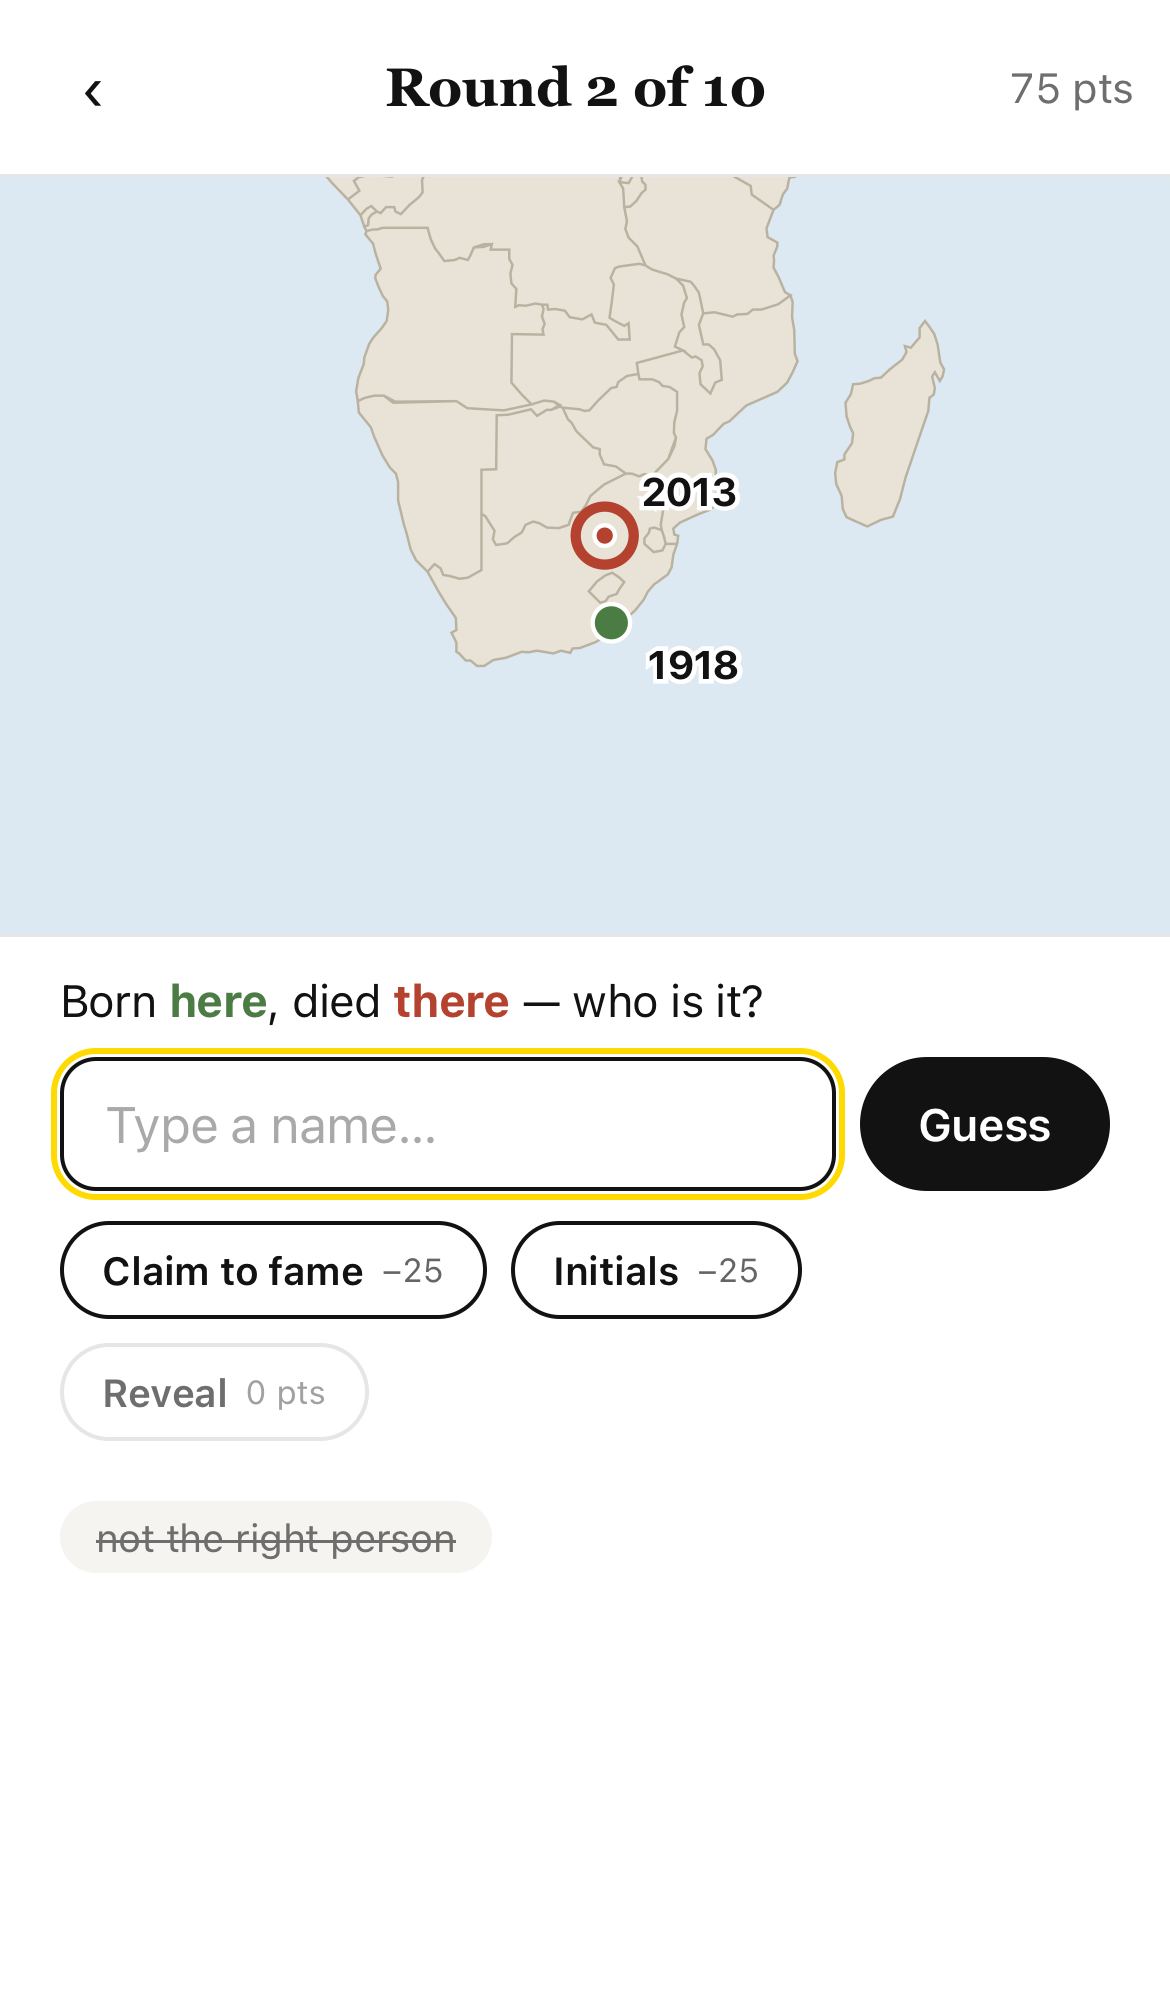
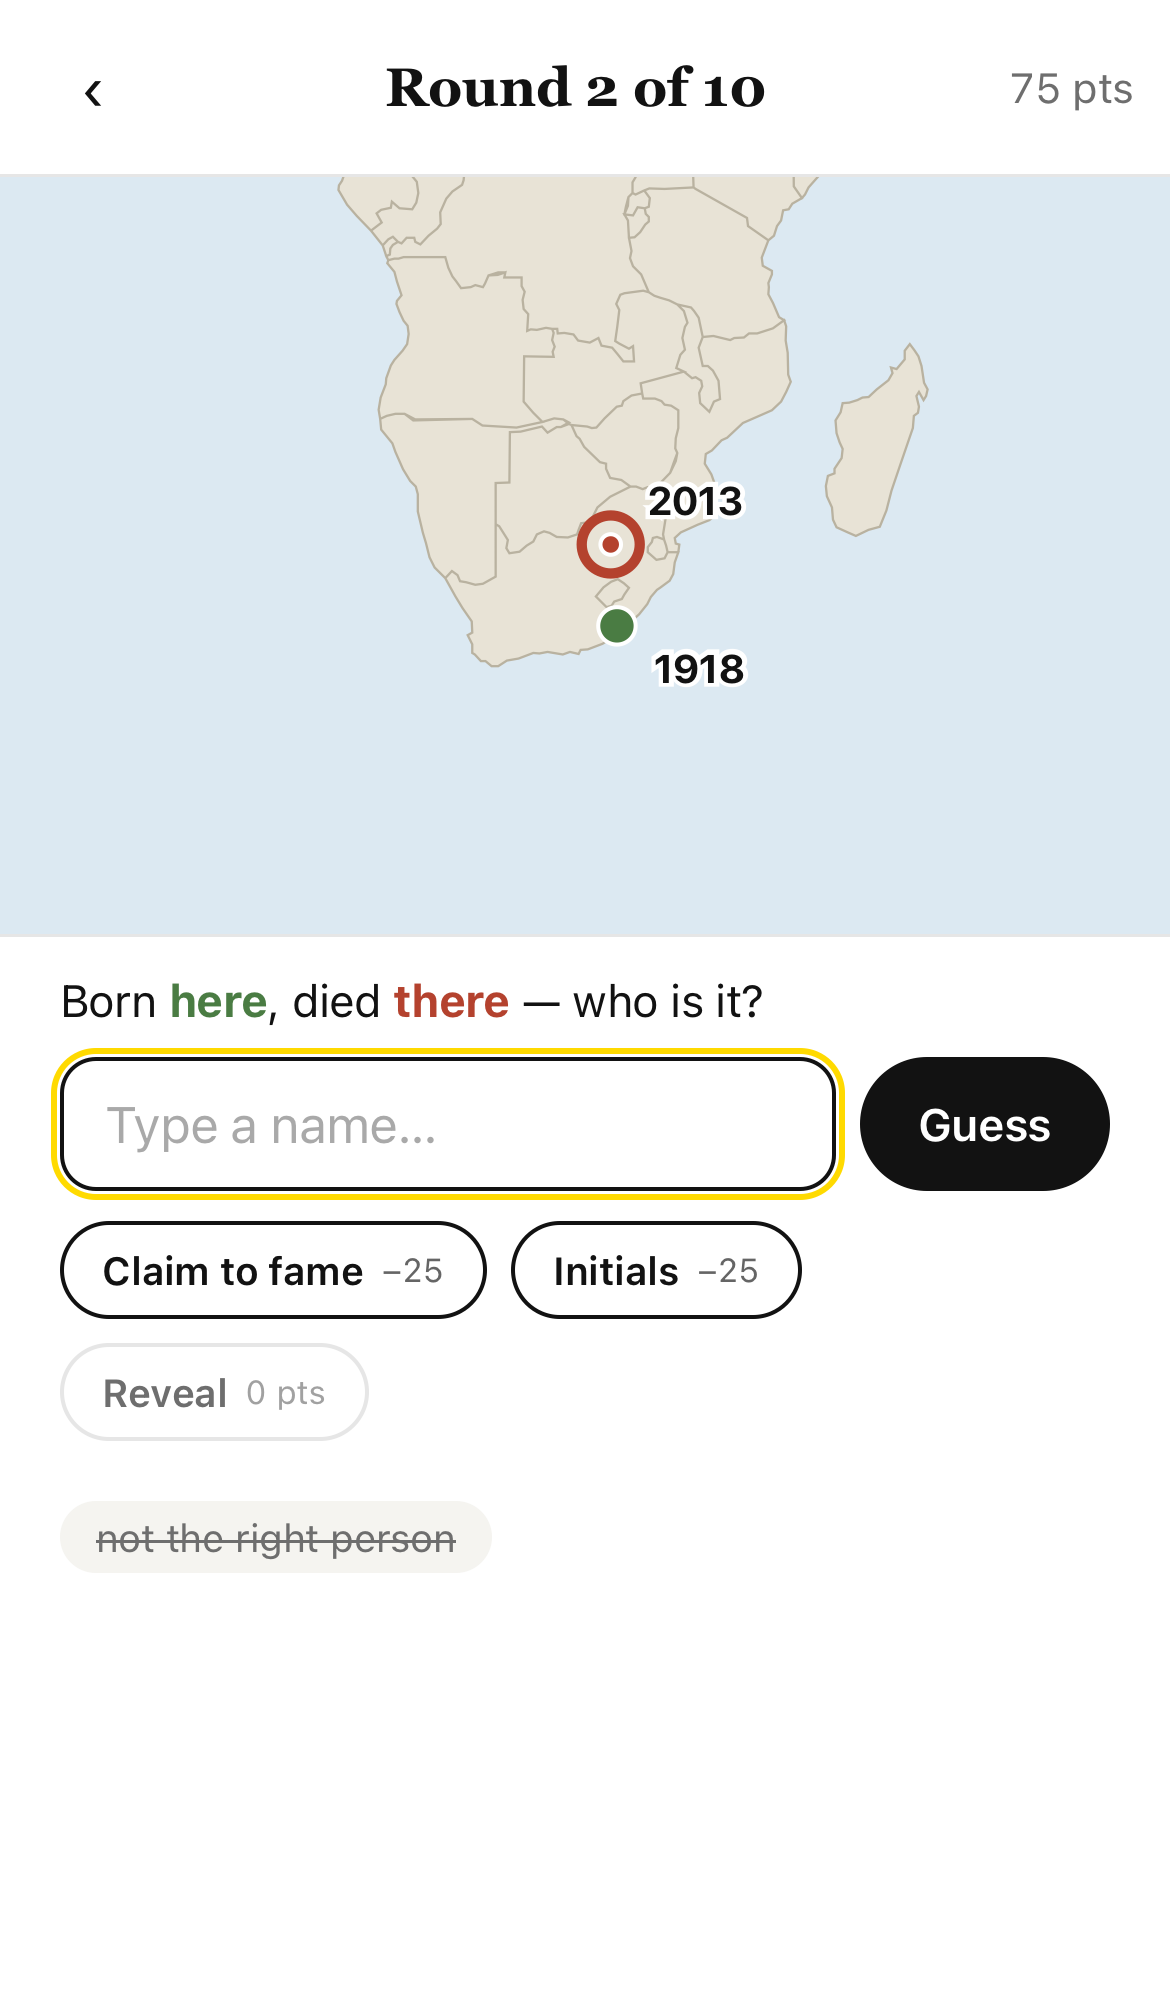
Final: round 6 critic report + refreshed screenshots
All 5 test steps pass (validator, crosswords, map game, PWA/offline,
screenshots). Round 6 verdict: HIGH 0, MEDIUM 2, LOW 8 — no high-severity
defects. Critic loop complete at cap (6 rounds).

diff --git a/CRITIC_REPORT.md b/CRITIC_REPORT.md
@@ -1,58 +1,48 @@
-# Critic report — round 5
+# Critic report — round 6 (final)
 
 ## Verdict
-HIGH: 1  MEDIUM: 1  LOW: 10
+HIGH: 0  MEDIUM: 2  LOW: 8
 
 ## Defects
 
-### [HIGH] Interrupting the session after answering the FINAL round silently discards the whole session
-- Where: js/mapgame.js — renderMapStart() / resumeSession() / finishSession()
-- What: The round-4 fix makes resume derive the next round from `results.length`, which works for rounds 1–9 (verified). But when the app is killed/evicted after the 10th round resolves and before "See results ›" is tapped, the saved blob has `results.length === ids.length`, so renderMapStart() deems it non-resumable (Resume hidden) and resumeSession() would clear it. finishSession() never runs, so no summary is shown, `sessions` is never incremented and the best score is never recorded. Empirically reproduced (Playwright, mapseed=7): answered all 10 rounds for 1090 pts on screen → reload → map start says "First session — good luck", Resume hidden, `map` stats null, while an orphaned 10-result session blob sits in localStorage until the next "Start a session" overwrites it. On iOS, switching apps at the final feedback screen — the natural "I'm done" moment — routinely evicts the PWA page, so this is the same kill-before-"Next" window round 4 flagged, still broken for the last round, now as silent data loss instead of double-counting.
-- Why it matters: A completed 10-round session — potentially the player's best score — vanishes without acknowledgement; the spec promises score persistence and a session summary.
+### [MEDIUM] A finished-but-unviewed session is permanently discarded if the player taps "Start a session" instead of "See your results"
+- Where: js/mapgame.js — startSession() / renderMapStart(); view-mapstart button hierarchy in index.html
+- What: The round-5 fix correctly surfaces a kill-after-final-round session as a "See your results (N pts)" button, and tapping it records the session (verified: suite + my probe). But that button is the *secondary* pill, below the primary "Start a session". If the player taps Start instead — plausible for someone returning days after an eviction — startSession() immediately persists a fresh session over the finished blob and the completed session is never counted: empirically reproduced (Chromium, mapseed=7): finish all 10 rounds for 1090 pts on screen → reload → map start shows "See your results (1090 pts)" → tap "Start a session" → store.getMap() is still {sessions: 0, bestScore: 0, bestStreak: 0}. A completed session containing what may be the player's best score evaporates with no record and no acknowledgement, even though the app had every byte needed to bank it before overwriting.
+- Why it matters: Spec promises score persistence and a session summary; banking a *finished* session should not depend on which of two buttons the player taps.
 
-### [MEDIUM] Navigating away during the celebration leaves a stale "solved" modal over the next puzzle
-- Where: js/crossword.js — openPuzzle() never resets #cw-done (nor #cw-sheet / #cw-cluelist); index.html #cw-done lives inside #view-cw
-- What: The completion modal is only hidden by its own two buttons. If the player leaves view-cw while it is open — a plain browser Back on desktop (any engine), or Backspace in WebKit (see LOW below) — the modal's `hidden` stays false. Opening any other puzzle then shows the old celebration over the fresh grid. Empirically reproduced (Chromium desktop): solve Mini 2 → modal up → browser Back → open Mini 1 → "Bravo! Mini 2 solved in 0:00." sits over the unsolved Mini 1 grid. It is dismissable ("Admire the grid"), but a celebration appears over a grid that is not fully correct, naming the wrong puzzle.
-- Why it matters: Misleading celebration on the wrong puzzle violates "celebration ONLY when the grid is fully correct" on a path any desktop player can hit with one Back press.
+### [MEDIUM] The shared confirm dialog survives navigation and sits orphaned over the wrong screen
+- Where: js/app.js appConfirm() / #confirm-sheet (global, outside any .view); js/crossword.js viewchange handler hides cw-done/cw-sheet/cw-cluelist but not #confirm-sheet
+- What: The round-5 fix clears the crossword's own overlays on viewchange, but the app-wide #confirm-sheet is exempt. Two reproduced paths: (1) Chromium desktop — open Mini 1 → ✓ → "Clear & restart" → confirm up → browser Back: the puzzle list renders with "Clear all your answers and restart this puzzle?" still floating over it; tapping "Clear it" then wipes a puzzle that is no longer on screen. (2) WebKit hardware keyboard — in a map round tap ‹ (quit) → confirm up → press Backspace (focus on body): view navigates to the map start screen with the quit dialog still open; tapping "Quit session" from there clears the session and dumps the player on Home. The round-5 Backspace guard was added only inside view-cw, so the exact overlay-open-Backspace niche round 5 flagged still fires everywhere else.
+- Why it matters: An orphaned modal acting on off-screen state is broken, un-NYT-like UI on a one-press path (Back is a natural "dismiss the dialog" reflex), and its buttons mutate things the player can no longer see.
 
-### [LOW] Mid-round resume forgets hints and wrong-guess penalties already incurred
-- Where: js/mapgame.js — persistSession() saves no S.cur state; startRound() resets it on resume
-- What: Take both hints (occupation + initials shown), kill the app, resume: the same figure is presented with zero hint chips and zero penalty, and answering scores the full 100 (reproduced: 2 chips → reload → resume → same figure → "+100 pts"). An app-kill is a free hint-refund; deliberate players can use it to cheat their own best score.
-- Why it matters: Scoring-integrity leak on the resume path; only self-cheating, hence LOW.
+### [LOW] Mid-round resume restores hint chips but not wrong-guess chips, so carried −10 penalties are invisible
+- Where: js/mapgame.js — persistSession() stores cur.wrongs as a count only; startRound() rebuilds hint chips but #map-guesses stays empty
+- What: Take a hint, guess wrong twice, kill the app, resume: the chips for both hints reappear and the penalties are correctly kept (verified: resumed round paid 100−25−25−10 = +40 with one wrong guess carried), but the struck-through wrong-guess chips are gone, so a player who answers correctly sees a quieter payout than the visible state explains. Scoring integrity is now right (round-5 LOW fixed); what remains is a cosmetic accounting gap.
+- Why it matters: The score deduction is honest but unexplained on the resumed screen.
 
-### [LOW] Unhandled keys are not preventDefault-ed while overlays are open — WebKit Backspace navigates the app back
-- Where: js/crossword.js keydown handler — the overlay guard (`if (!$('#cw-sheet').hidden || ...) return;`) returns before preventDefault
-- What: With the check/reveal sheet, clue list, confirm or completion modal open, Backspace falls through to the browser default. In WebKit (Playwright WebKit reproduces; affects hardware-keyboard iPad/Safari setups) that is history-back: the app yanks the player out of the puzzle view mid-solve, and is one of the two triggers for the stale-modal defect above. Chromium is unaffected.
-- Why it matters: Hardware-keyboard niche, but it dumps a solver out of an in-progress puzzle from a habitual keypress.
-
-### [LOW] Reveal-all earns the identical celebration and "✓ time" badge as an honest solve
-- Where: js/crossword.js — doReveal('puzzle') → checkCompletion(); renderPuzzleList() done badge
-- What: Revealing the entire puzzle triggers the full "Bravo!" + confetti and marks the list entry "✓ 0:00" exactly like a genuine solve. The letter of the spec ("celebration only when fully correct") is met, but NYT distinguishes assisted/revealed completions (no gold star, different copy).
-- Why it matters: Un-NYT-like; cheapens the completion state the rest of the design treats as earned.
-
-### [LOW] Browser-Back mid-session leaves the map start screen stale (no Resume button)
-- Where: js/app.js popstate → render() (only refreshHomeStats for home); js/mapgame.js renderMapStart() only runs from the home-card click and quit/clear paths
-- What: Pressing browser Back during a round lands on "Map of a Life" start with a resumable session saved but the Resume button hidden (reproduced on Chromium). Tapping "Start a session" then silently overwrites the saved session. Related residue: in-app ‹ pops the view trail without popping history, so one browser-Back press afterwards is a visible no-op (depth-sync prevents anything worse — Forward no longer mis-navigates; verified).
-- Why it matters: Stale UI on a desktop-only navigation path; the installed-PWA primary target has no Back button.
+### [LOW] "Start a session" silently overwrites a resumable mid-round session with no confirmation
+- Where: js/mapgame.js — startSession() bound directly to #map-start
+- What: With "Resume — round N of 10 (X pts)" showing, tapping "Start a session" discards the saved session without the in-app confirm that quitting from inside a round requires. The Resume button is always fresh now (render() re-runs renderMapStart, verified), so the player is informed — but one mistap deletes progress that the quit path guards with "Quit this session? The score so far will be lost."
+- Why it matters: Inconsistent protection for the same destructive outcome.
 
 ### [LOW] Repeated short fill across the 10-puzzle set, including an identical 1-Across in consecutive midis
-- Where: data/puzzles.json — midi-1 and midi-2 both open with 1A NOT; HAN (mini-1/mini-3), EON (mini-4/mini-5), ERA (midi-1/full-2), AMA, ARI, NIT (midi-2/full-2)
-- What: Within-puzzle uniqueness holds (validator-enforced); the repeats are across puzzles, with NOT in the very same slot of consecutive midis. Acknowledged trade-off category, unchanged since round 4.
+- Where: data/puzzles.json — midi-1 and midi-2 both open with 1A NOT; HAN (mini-1/mini-3), EON (mini-4/mini-5), ERA (midi-1/full-2), AMA, ARI, NIT (midi-2/full-2), ALL (midi-3/full-2)
+- What: Within-puzzle uniqueness is validator-enforced and holds; these are cross-puzzle repeats, unchanged since round 4 and an acknowledged trade-off category.
 - Why it matters: Reads as constructor autopilot in a curated 10-puzzle collection.
 
 ### [LOW] ANN and ANNA in the same grid
 - Where: data/puzzles.json — full-2 "Old Europe", 23-Down ANN and 61-Down ANNA
-- What: Both clues are factually fine (Cape Ann named for Anne of Denmark; Leonowens in 1860s Siam), but ANN is wholly contained in ANNA; NYT construction avoids near-duplicates of the same name root in one grid. Unchanged since round 4.
+- What: Both clues are factually sound (Cape Ann for Anne of Denmark; Leonowens in 1860s Siam), but ANN is wholly contained in ANNA; NYT construction avoids near-duplicate name roots in one grid. Unchanged since round 4; acknowledged category.
 - Why it matters: Duplication-adjacent blemish in a marquee puzzle.
 
 ### [LOW] TREXARM remains a borderline entry
-- Where: data/puzzles.json — full-1 "Across the Ages", 25-Across ("Notoriously stubby limb on the Cretaceous' apex predator")
-- What: Factually fine, but T-REX ARM as a standalone 7-letter entry is informal slang at the edge of "real words/names/phrases only"; the "Cretaceous'" possessive is also awkward styling.
+- Where: data/puzzles.json — full-1 "Across the Ages", 25-Across
+- What: The clue wording was fixed this round ("a Cretaceous apex predator" — the awkward possessive is gone), but T-REX ARM as a standalone 7-letter entry is still informal slang at the edge of "real words/names/phrases only". Acknowledged category.
 - Why it matters: Spec's vocabulary bar; defensible but wobbly.
 
 ### [LOW] A tail of generic glue clues is not history-themed
-- Where: data/puzzles.json — e.g. full-1: YELP, OPT, EXIT, ESTEEM, MCS, RINSE, EATS, REF, HIREE; full-2: GRAN, EAT, TIC, EEK, MAW, GLANCE, AFFECT
-- What: The spec's letter says "all clues history-themed". The minis/midis and the vast majority of the fulls are flavored (often cleverly), but roughly 15 short glue entries in the two fulls carry plain dictionary clues. Defensible under a standard construction reading — nobody history-flavors EEK — but it is a literal spec deviation.
+- Where: data/puzzles.json — e.g. full-1: YELP, OPT, EATS, REF, MCS, RINSE, HIREE; full-2: GRAN, EAT, TIC, EEK, MAW, GLANCE, AFFECT
+- What: Two former members of this list were upgraded this round (ESTEEM now Roman-flavored, EXIT now "pursued by a bear"), but roughly a dozen short glue entries in the two fulls still carry plain dictionary clues against the spec's literal "all clues history-themed". Defensible under standard construction practice — nobody history-flavors EEK.
 - Why it matters: Letter-of-spec gap; practical impact minimal.
 
 ### [LOW] Pinch zoom disabled app-wide
@@ -62,15 +52,16 @@ HIGH: 1  MEDIUM: 1  LOW: 10
 
 ### [LOW] Offline behaviour automated only on Chromium
 - Where: tests/test_pwa.py output; README "Known limitations"
-- What: WebKit's Playwright harness errors on offline reload ("WebKit encountered an internal error"), so the offline flow is hard-gated on Chromium only, WebKit best-effort. Disclosed; reconfirmed in this round's run.
+- What: WebKit's Playwright harness errors on offline reload ("WebKit encountered an internal error"), so the offline flow is hard-gated on Chromium only, WebKit best-effort. Disclosed; reconfirmed in this round's suite run.
 - Why it matters: The target platform is iOS/WebKit; its offline guarantee rests on platform behaviour, not a green check.
 
 ## What was checked
-- Ran `python3 tools/validate_puzzles.py` (5 mini / 3 midi / 2 full, ALL PUZZLES VALID) and read the validator source to confirm it actually enforces structure, ≥3-letter runs, interlock, connectivity, 15×15 rotational symmetry, numbering/answer/position agreement, in-puzzle duplicate bans and clue-contains-answer bans.
-- Ran the full suite `python3 tests/run_all.py`: all five steps PASS (validator; all 10 crosswords solved end-to-end on WebKit/iPhone; deterministic 10-round map session with exact scoring, numeral-guard and resume-after-resolve assertions; manifest/icons/SW/Chromium-offline; 16 screenshots regenerated). Confirmed the suite now covers the round-4 HIGH (kill-before-Next resume for non-final rounds).
-- Wrote and ran independent Playwright probes for paths the suite skips: final-round interrupt (found the HIGH — 1090-pt session discarded), mid-round interrupt after hints (hint-penalty refund), revealed-cell lock (typing over a revealed square leaves it intact and advances; overlay-open typing leaks nothing into the grid through check sheet, clue list, or confirm sheet), reveal-all → completion modal, browser Back during the celebration (found the MEDIUM stale modal), Backspace-with-overlay-open (WebKit navigates back; Chromium fine), browser Back/Forward depth sync after in-app back (no mis-navigation), quit-confirm Cancel/Yes flows. Zero console/page errors in every probe.
-- Re-audited every clue and answer in all 10 puzzles as the pedantic professor, deriving answers from the grids myself. Spot-verified the dated/factual claims (Order 227, Les Baux 1821, Tetris 1984, Safeco 1923, Notre-Dame 1804, Spindletop 1901, AMA 1847/Medicare-1960s, 1800 electoral tie, Nye Committee, Plessis-Praslin praline, core-rope ROM, one-term Adamses, Louisiana Purchase $15M, Hannibal 218 BC, She 1887, RICO 1970, Stamp Act 1765, John Rae/Franklin, Saudi 1932, ATF/Prohibition, Hee Haw 1969, Enya 1988, Blues and Greens, von Braun, Schubert Octet 1824, PAC 1943, Grover Cleveland/Harrison, Chirac 1995–2007, 8-track fade, Suleiman "Lawgiver", Rousseau 1762, Tut 1922, NATO 1949, Dred Scott, Edy/Dreyer 1928, More/Utopia, Ascot 1711, posh folk etymology hedge, bra patent 1914, NES 1985, L 1892, Emu War 1932, Versailles 1919, Fiona Macleod/Shrek, Elsie 1936, Edict of Nantes 1598, Esau's lentils, Ari Fleischer, ream 480, imperial exams, NBA 1946, MTV 8/1/1981, Great Game, Val Kilmer/Holliday, Revere, Metternich, Ani "1,001 churches", WTA 1973, Anakin-named-1983, Air Cav, Streeter/Women Marines, Cellini, Rosa Parks, laser 1960, Felix, Cape Ann/Anne of Denmark, llamas, Deighton, Maverick, Mae West 1920s, Miller/Crucible, Moran, Leonowens 1860s, Marie Curie "radioactivity", Ogden "Junction City", Victoria/William IV niece, Moe Berg, Pascal/Cleopatra's nose, Pan/panic, Pindar, Uma/Parvati, Bikini 1946–58, Opium Wars, Han dynasty placement, Salem 1692, Edo/1868, Roman Empire ~5M km²) — no factually wrong clue found. EGO now "Freudian concept" (round-4 fix confirmed).
-- Verified all 30 figures in data/figures.json: 10/10/10 difficulty split, names/variants/initials behaviour, birth/death years (incl. BC and approx flags) and place-name-vs-coordinate plausibility for every figure (Ajaccio/Longwood, Alexandria, Genoa/Valladolid, Ulm/Princeton, Vinci/Amboise, Brookline/Dallas, Kensington/Osborne, Mvezo/Johannesburg, Porbandar/New Delhi, Salzburg/Vienna, Domrémy/Rouen, Warsaw/Sancellemoz, Shrewsbury/Downe, Zundert/Auvers, Trier/London, Frankfurt/Bergen-Belsen, Vienna/Place de la Révolution, Pella/Babylon, Florence/London, Carthage/Libyssa, Tikrit/Damascus, Trabzon/Szigetvár, Cap-Français/Fort de Joux, Werowocomoco/Gravesend, Sines/Kochi, Marton/Kealakekua, Kesh/Otrar, Stettin/St Petersburg, Caracas/Santa Marta) — no errors.
-- Read all UX code (index.html, css/style.css, js/app.js, crossword.js, mapgame.js, match.js, storage.js, sw.js, manifest.webmanifest) against every spec item; confirmed both round-4 fixes (resume derives from results.length for rounds 1–9; resolved rounds hide the dead form/hints and Next is in view).
-- Inspected all 16 freshly regenerated screenshots: "Next round ›" now fully visible in 12 and 14 (round-4 MEDIUM fixed), marker/label legibility, auto-zoom framing (Portugal+India, South Africa), summary math (395 = 75+100+110+110), solved/check/clue-list/15×15 renders, desktop layout — all clean.
-- Checked manifest (standalone, portrait, full icon set incl. maskable), real PNG icons (32/180/192/512/maskable-512), service-worker precache list against the file tree, and zero console errors across every probe and the harness runs.
+- Ran `python3 tools/validate_puzzles.py` (5 mini / 3 midi / 2 full, ALL PUZZLES VALID) and re-read the validator source: it genuinely enforces structure, ≥3-letter runs, interlock (every white cell in an across AND a down), connectivity, ≥11 rotational symmetry, numbering/answer/position agreement, in-puzzle duplicate and clue-contains-answer bans.
+- Ran the full suite `python3 tests/run_all.py`: all five steps PASS (validator; all 10 crosswords solved end-to-end on WebKit/iPhone; deterministic 10-round map session with exact scoring, numeral-guard, kill-before-Next resume AND the new kill-after-final-round assertions; manifest/icons/SW/Chromium-offline; 16 screenshots regenerated). Zero console errors except the disclosed WebKit-offline harness noise.
+- Wrote and ran independent Playwright probes (Chromium desktop + WebKit iPhone) for the paths the suite skips. Verified FIXED from round 5: final-round interrupt now offers "See your results (1090 pts)", delivers the summary and records stats; mid-round interrupt with hints resumes the same figure with both chips rebuilt, hint buttons disabled and the full penalty applied (+40 on 2 hints + 1 wrong); browser Back during the celebration hides the modal and no stale "solved" modal appears over the next puzzle; Backspace/letters with check sheet, confirm sheet or completion modal open in the crossword neither navigate (WebKit) nor leak into the grid; reveal-all completion shows "Filled in!" with no confetti and a "✓ time · revealed" list badge; revealed squares locked against overtyping and backspace; quit-confirm Cancel/Yes flows; "Play again" lands on Round 1 and stays there on both engines despite the async history.back()+pushState sequence; browser Back mid-session now shows a fresh Resume button (render() re-runs renderMapStart). Zero console/page errors in every probe.
+- Found the two MEDIUMs above by probing the recovery path's alternative button (Start instead of See-results) and the one overlay exempt from the viewchange cleanup (#confirm-sheet, both Back and WebKit-Backspace triggers).
+- Re-audited every clue and answer in all 10 puzzles as the pedantic professor, deriving answers from the grids. Re-checked this round's three edits (TREXARM wording, ESTEEM/dignitas, EXIT "pursued by a bear" — the Winter's Tale direction is "Exit, pursued by a bear", so the clue is exact) and spot-re-verified the obscurest dated claims (Order 227, Les Baux 1821, Tetris 1984, Safeco 1923, Spindletop 1901, AMA 1847/Medicare, 1800 tie, Nye Committee, Plessis-Praslin praline, core-rope ROM, one-term Adamses, $15M Purchase, 218 BC, She 1887, RICO 1970, Stamp Act 1765, Rae/Franklin, Saudi 1932, ATF/Prohibition, Hee Haw 1969, Enya 1988, Blues and Greens, Schubert 1824, PAC 1943, Cleveland/Harrison, Chirac 1995–2007, Suleiman "Lawgiver", Rousseau 1762, Tut 1922, NATO 1949, Dred Scott, Edy/Dreyer 1928, More/Utopia, Ascot 1711, bra 1914, NES 1985, L 1892, Emu War 1932, Versailles 1919, Fiona Macleod/Shrek 2001, Elsie 1936, Nantes 1598, Esau, Fleischer, ream 480, NBA 1946, MTV 8/1/1981, Great Game, Kilmer/Holliday, Streeter/Women Marines, Cellini, laser 1960, Cape Ann/Anne of Denmark, Leonowens, Moe Berg, Pascal/Cleopatra's nose, Pindar, Uma/Parvati, Bikini 1946–58, ANAKIN first spoken in ROTJ 1983, Air Cav, WTA 1973, Rubin Carter, Ogden "Junction City", Victoria/William IV, Han placement, Salem 1692, Edo 1868, Roman Empire ~5M km²). No factually wrong clue found.
+- Verified all 30 figures in data/figures.json: exact 10/10/10 difficulty split; every name/variant set, occupation line, birth/death year (incl. BC signs and approx flags) and place-name-vs-coordinate plausibility (Ajaccio/Longwood −15.95,−5.69; Mvezo; Sancellemoz/Passy; Bergen-Belsen 52.76,9.91; Pella/Babylon; Libyssa/Gebze; Szigetvár; Fort de Joux; Werowocomoco/Gravesend; Sines/Kochi; Marton/Kealakekua; Kesh/Otrar; Stettin/St Petersburg; Caracas/Santa Marta; and the rest) — no errors.
+- Read all UX code (index.html, css/style.css, js/app.js, crossword.js, mapgame.js, match.js, storage.js, sw.js, manifest.webmanifest) against every spec item, including the new history-sync back(), session cur-state persistence, assisted flag plumbing and overlay resets.
+- Inspected all 16 freshly regenerated screenshots: home/dateline correct for today, list states, mini/midi/full renders, clue list, check/reveal sheet, "Bravo!" modal, map start/round/hint/correct/wrong/revealed/summary (395 = 75+100+110+110 checks out), desktop layout — all clean, no placeholders or dead ends visible.
+- Checked manifest (standalone, portrait, full icon set incl. maskable), PNG icon dimensions byte-level (32/180/192/512/512), and the service-worker precache list against the file tree (all runtime assets covered; assets/icon.svg is build-source only).